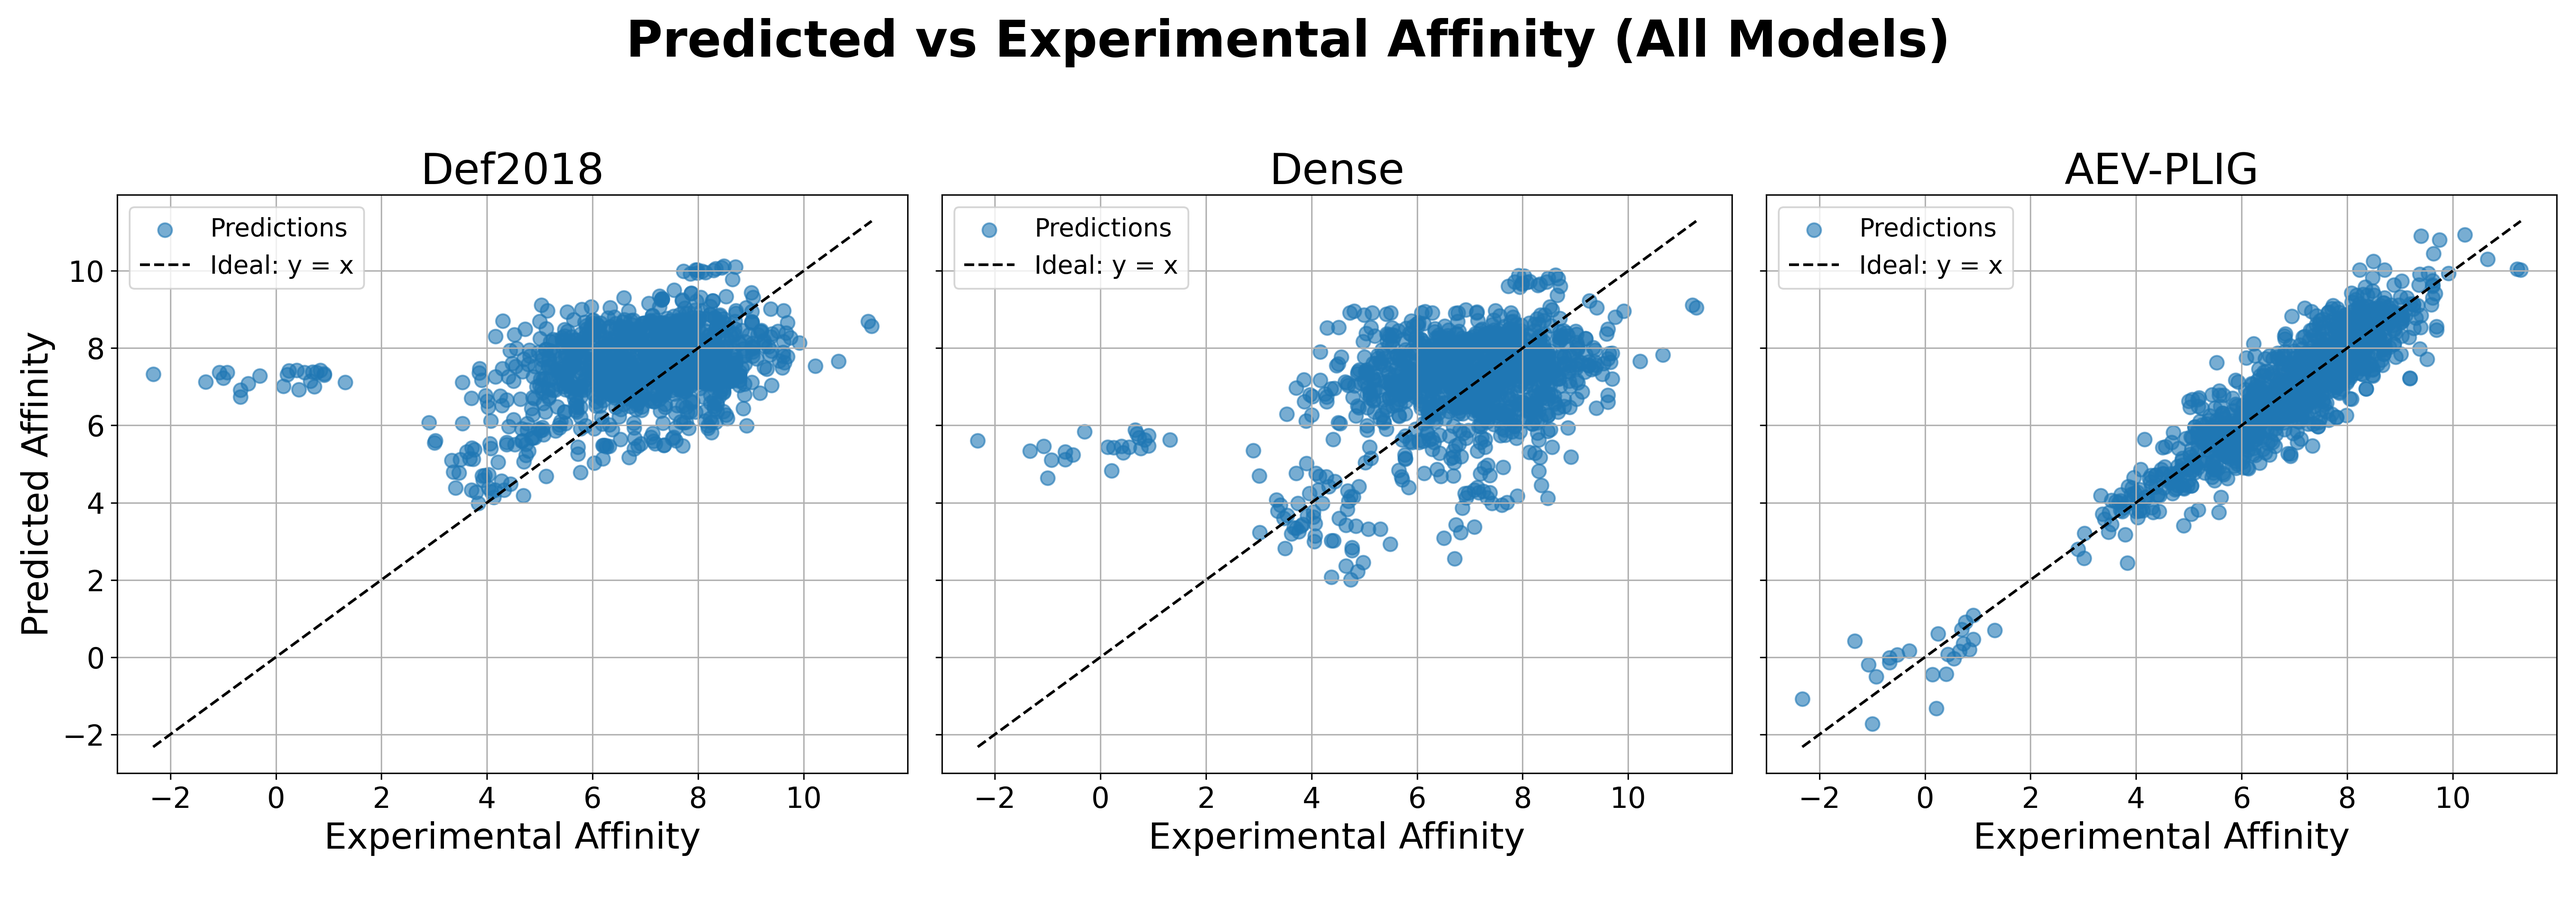
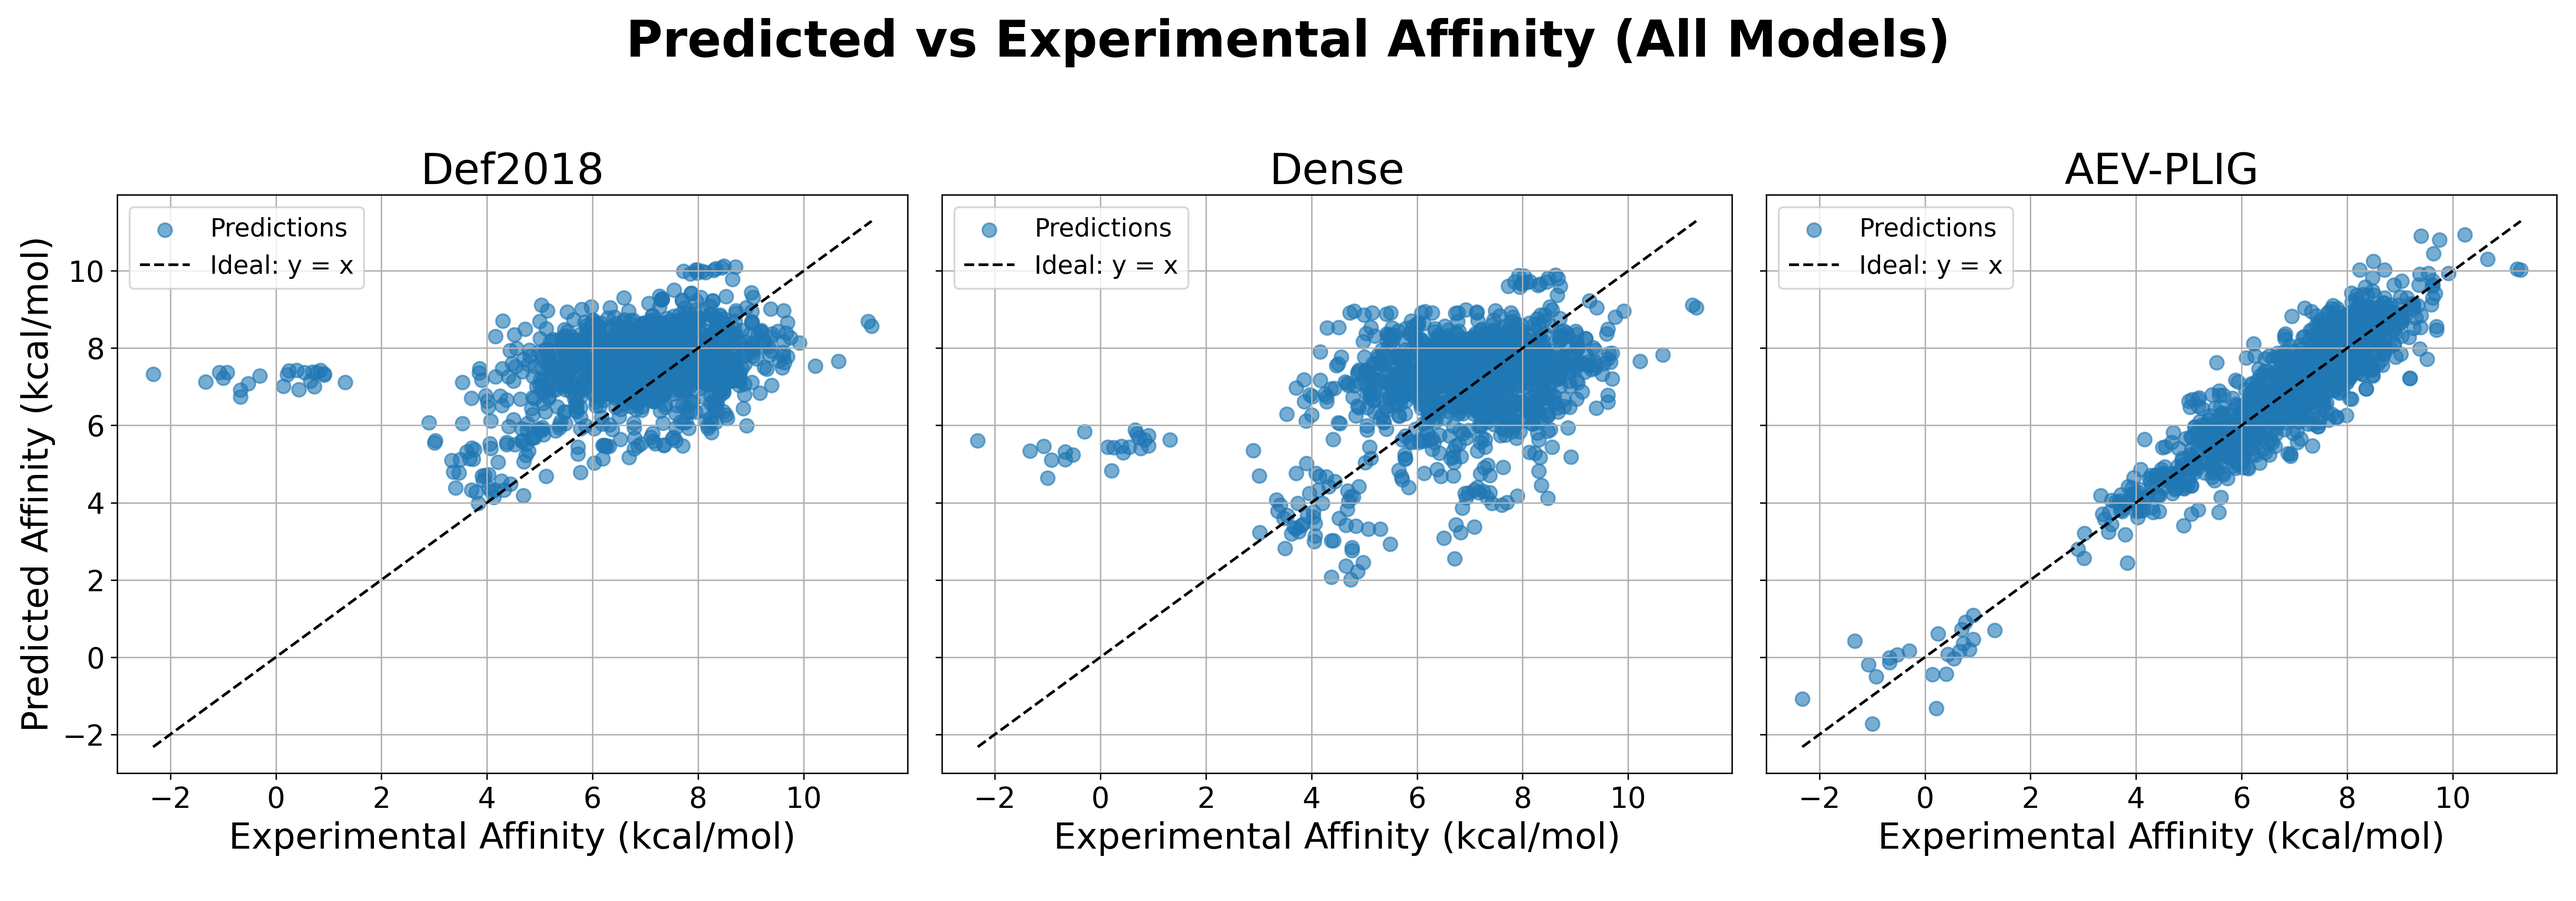
final FEP version

diff --git a/FEP/FEP_plotting.py b/FEP/FEP_plotting.py
@@ -184,9 +184,9 @@ def plot_overall_correlation(FEP_data, target_metrics, save_path=RESULTS_DIR):
                 'k--', label='Ideal: y = x')
 
         ax.set_title(model, fontsize=24)
-        ax.set_xlabel('Experimental Affinity', fontsize=20)
+        ax.set_xlabel('Experimental Affinity (kcal/mol)', fontsize=20)
         if i == 0:
-            ax.set_ylabel('Predicted Affinity', fontsize=20)
+            ax.set_ylabel('Predicted Affinity (kcal/mol)', fontsize=20)
 
         ax.tick_params(axis='both', which='major', labelsize=16)
         ax.legend(fontsize=14)
